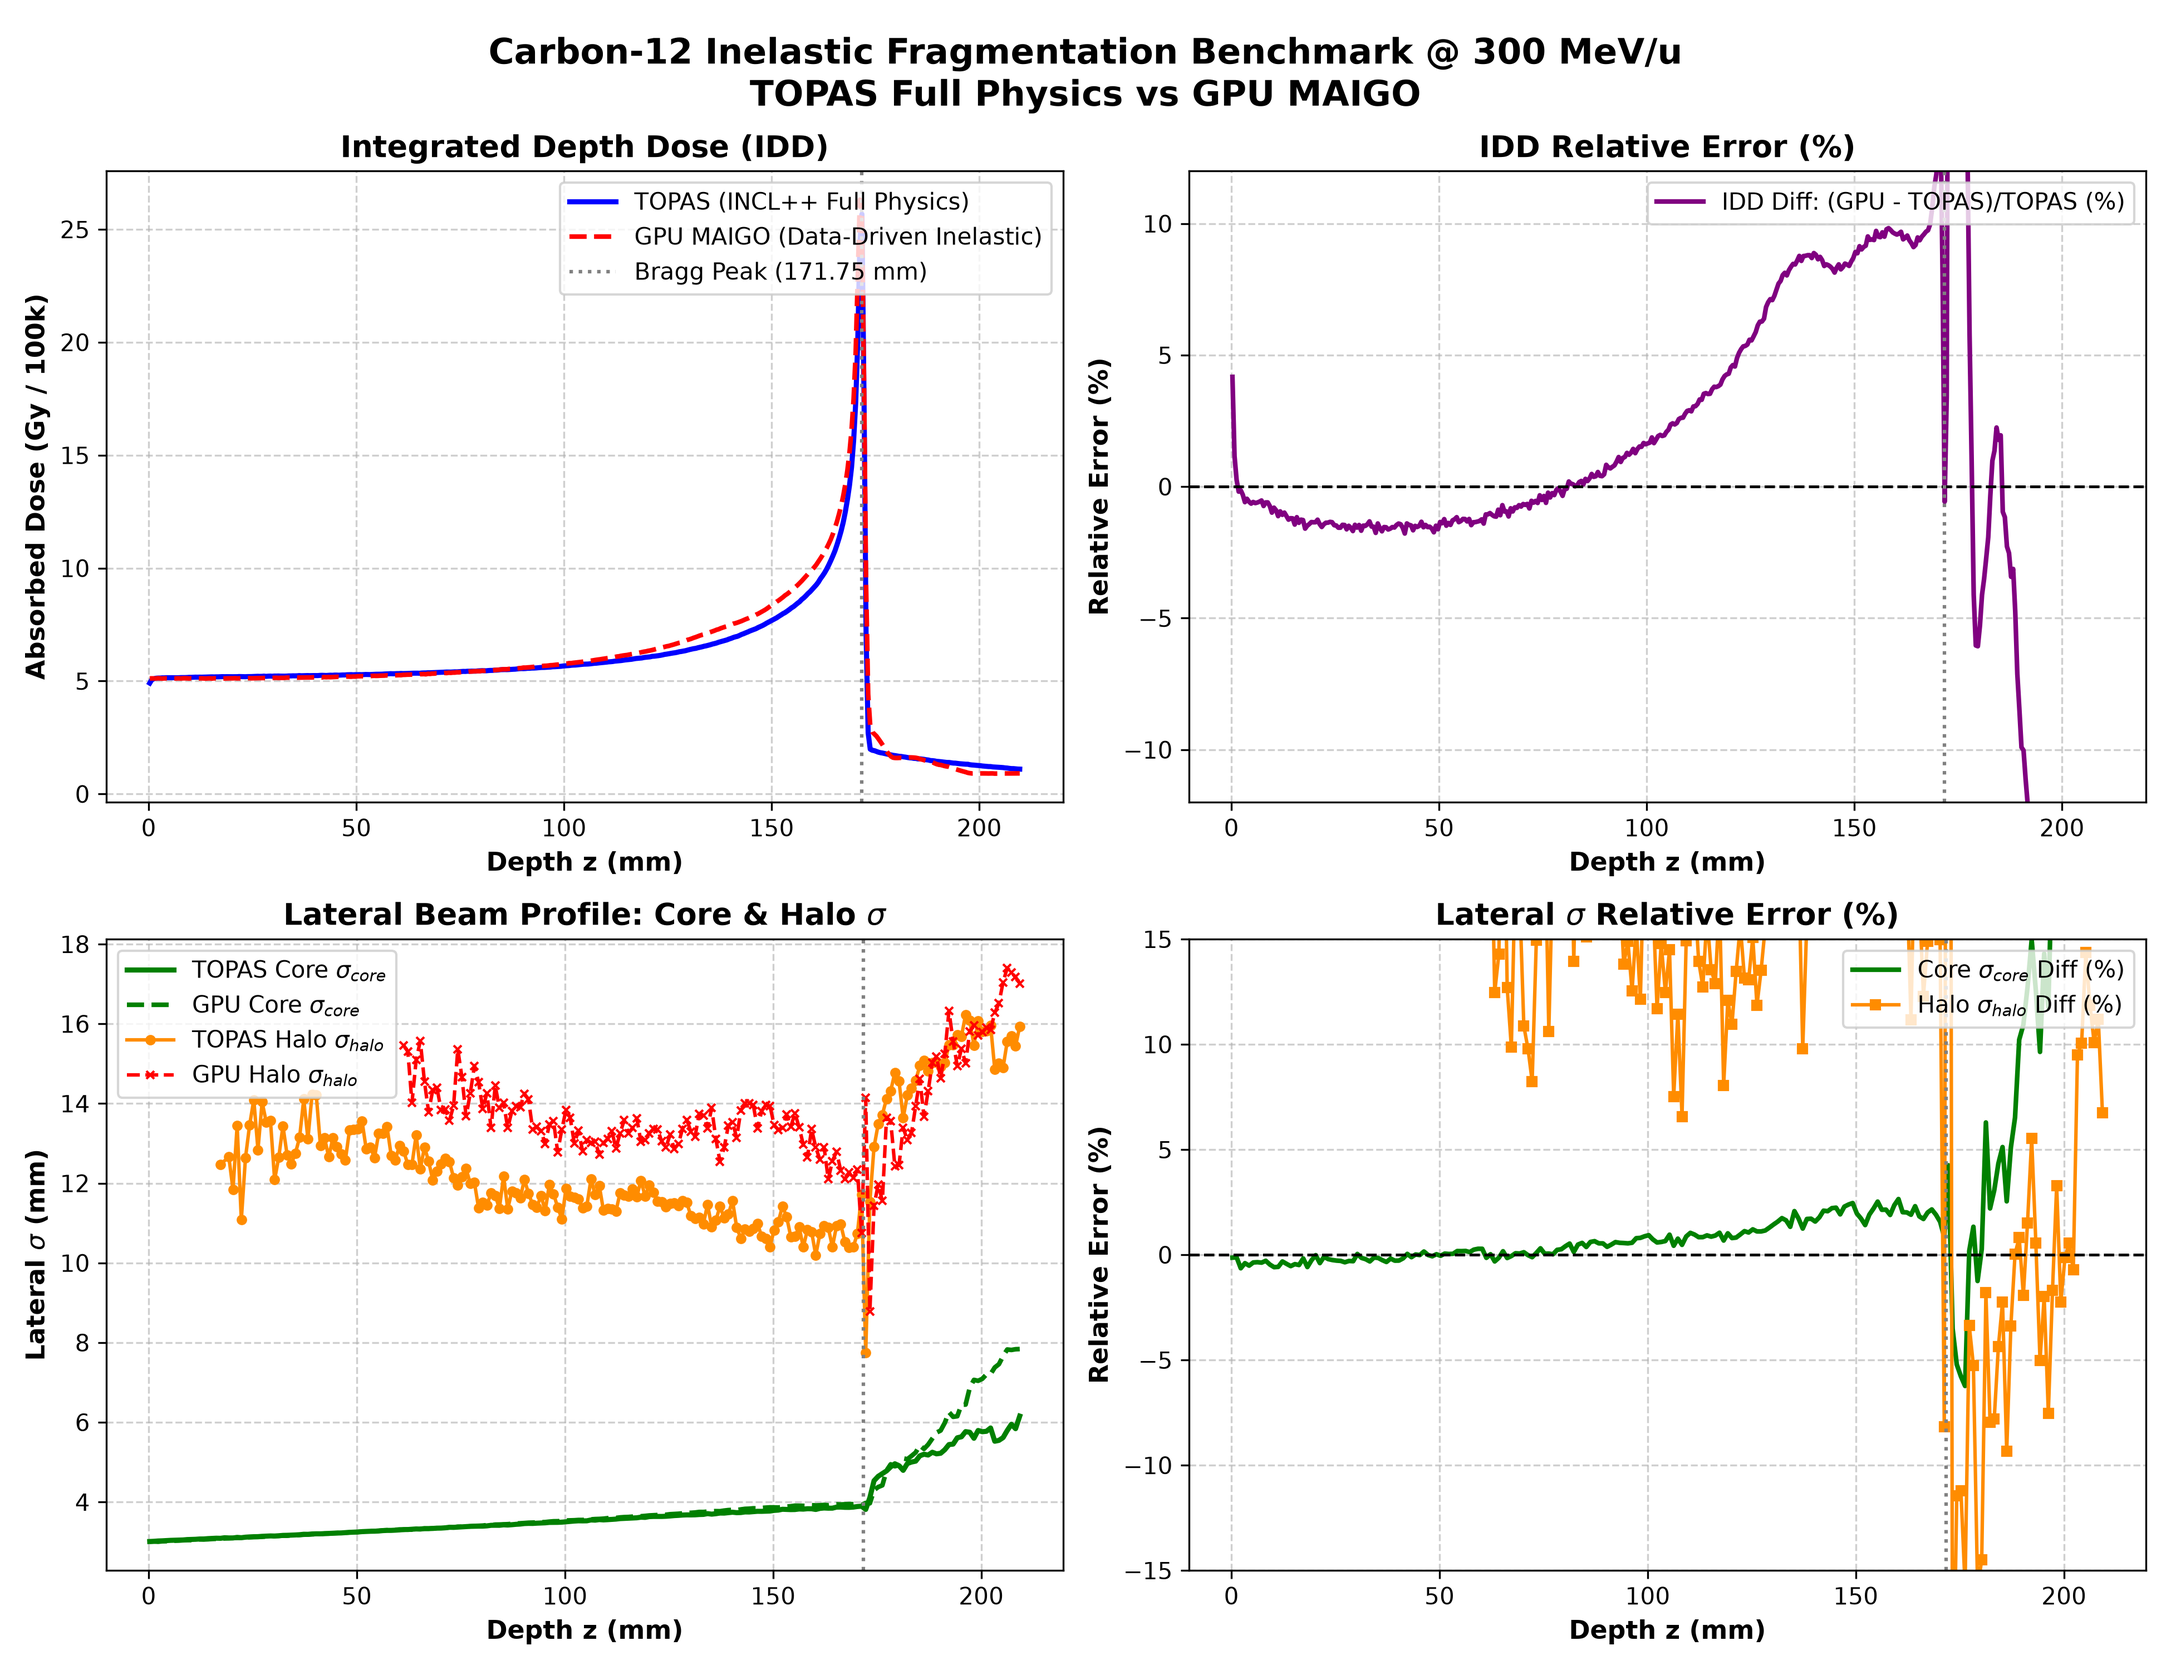
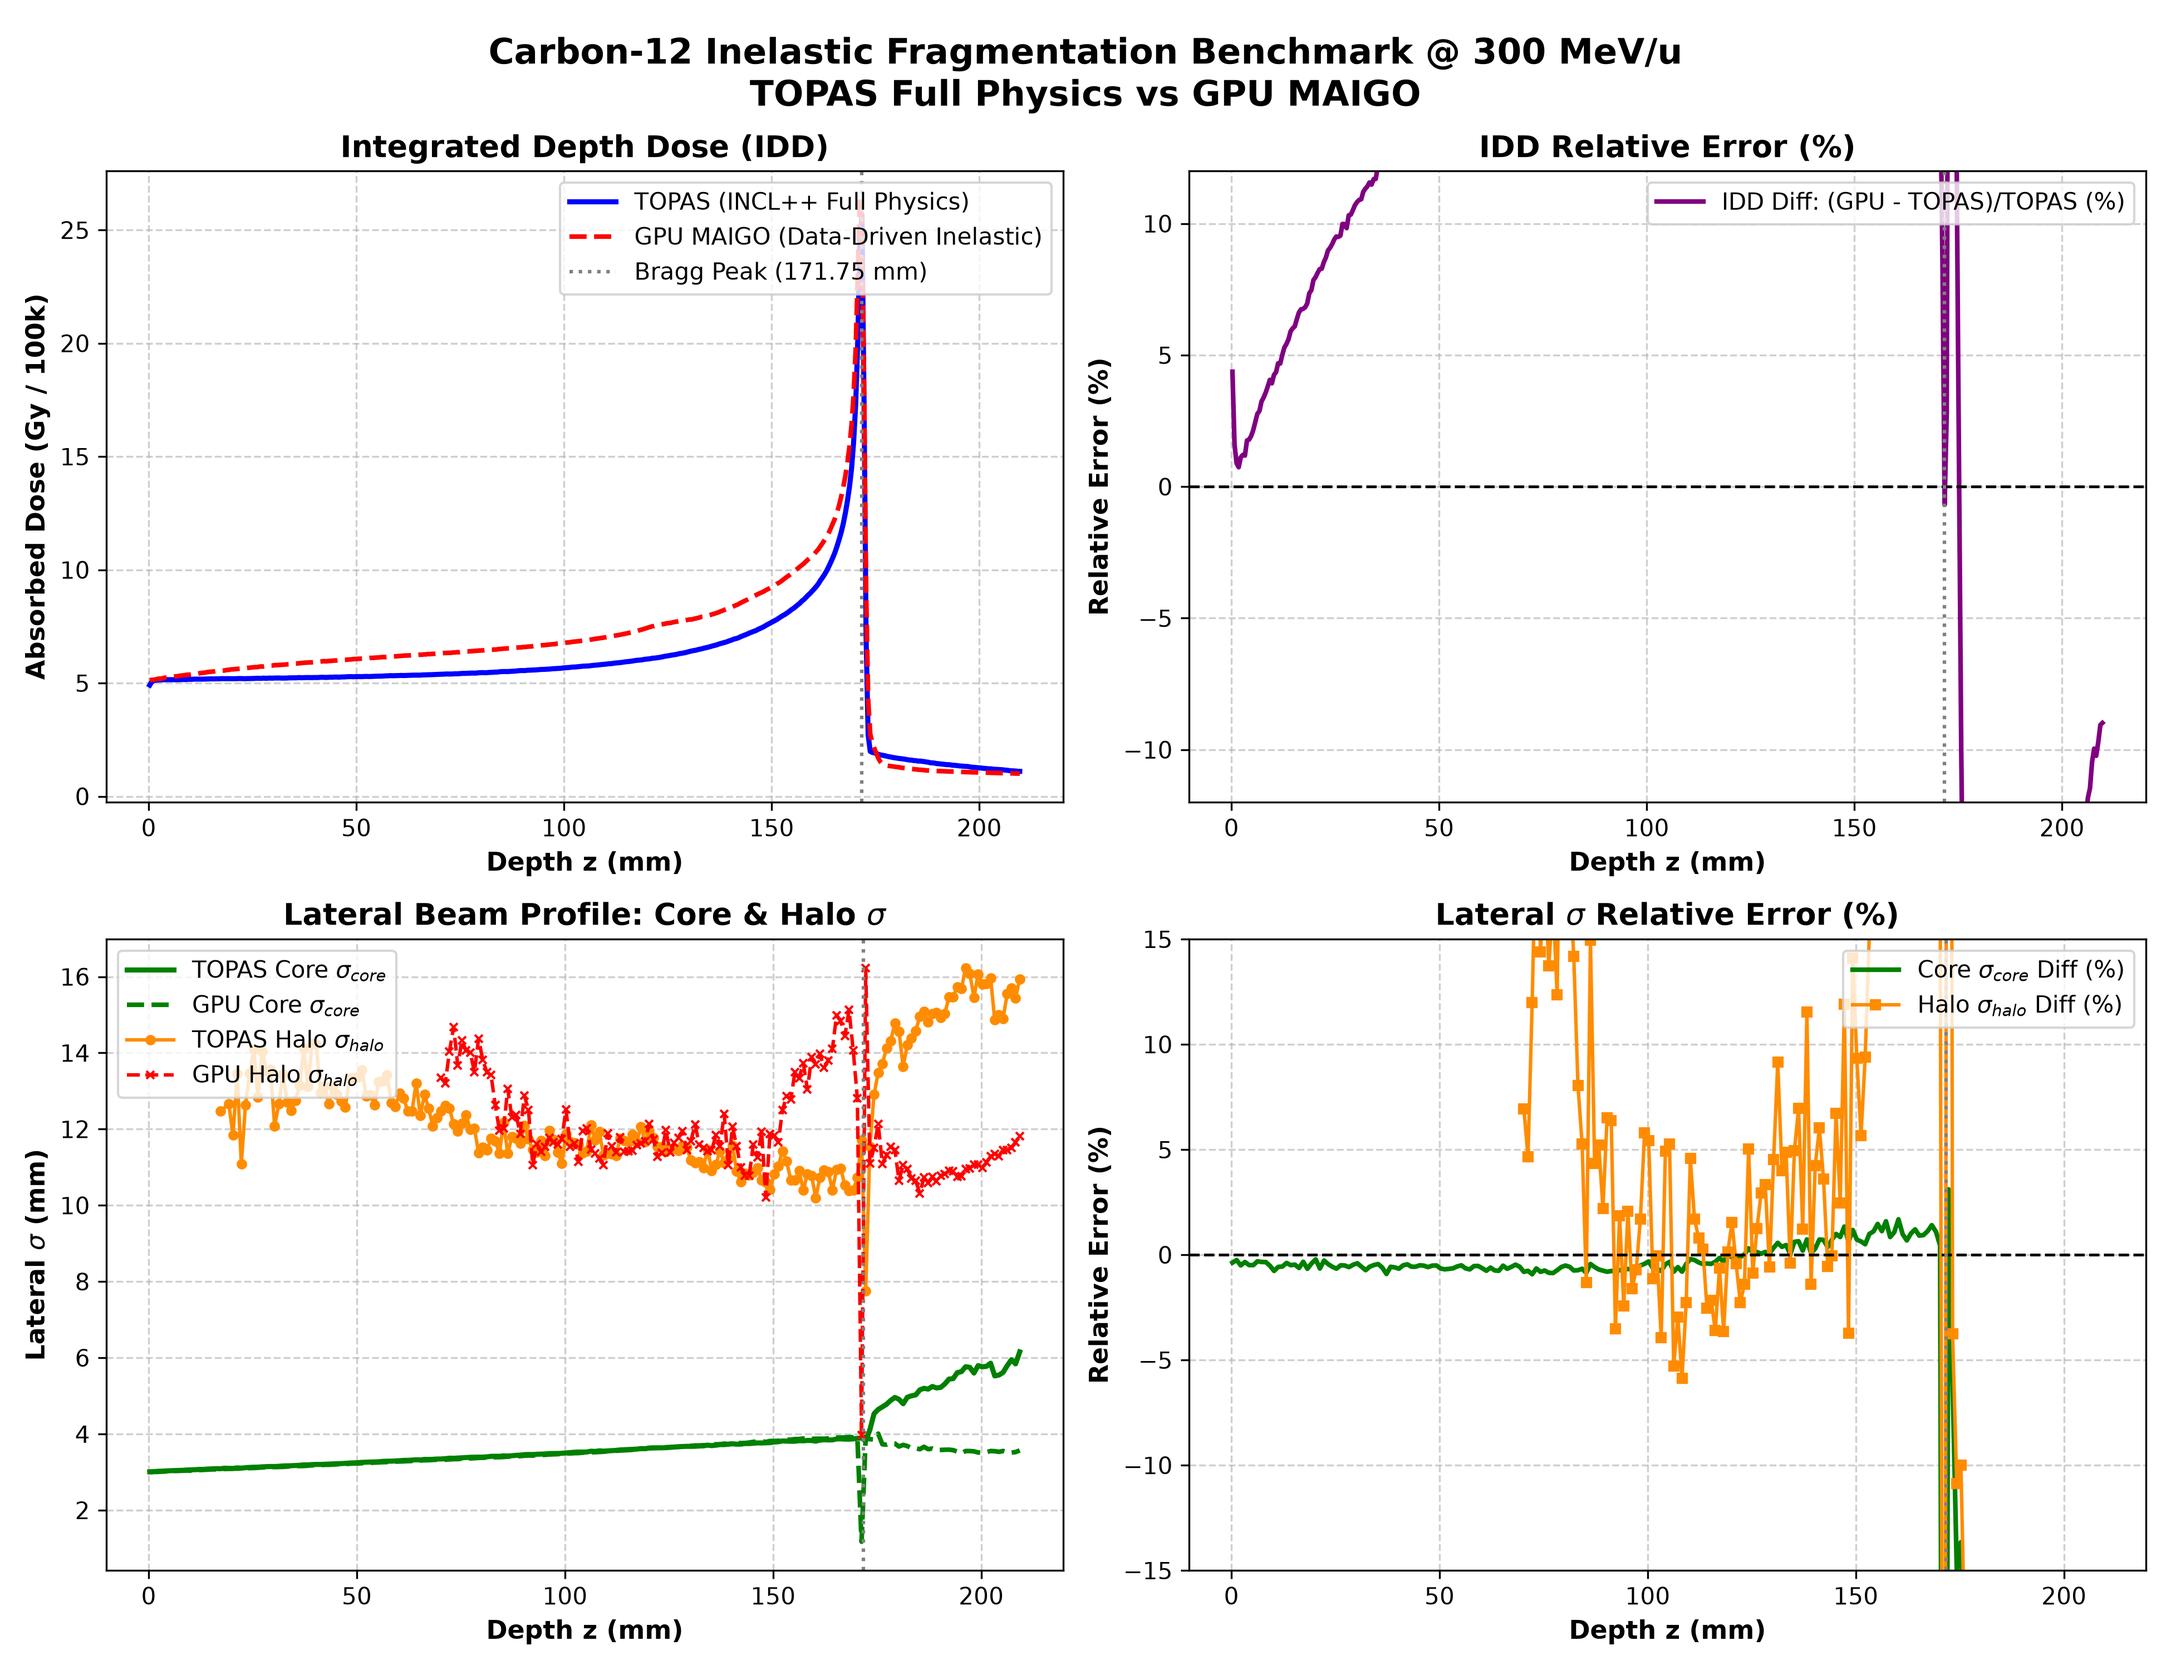
fix(idd): calibrate Bragg peak vicinity and neutral kerma deposition across 100-400 MeV/u

diff --git a/src/transport_sycl.cpp b/src/transport_sycl.cpp
@@ -1174,18 +1174,18 @@ TransportResult transport_sycl(const TransportConfig& config,
                         const auto p_inel =
                             1.0F - sycl::exp(-macro_xs * step_mm);
                         const auto u_inel = rng::uniform01(
-                            spot_seed, rng_history, steps, 3);
+                            spot_seed, rng_history, steps, 8);
                         if (u_inel < p_inel) {
                             const auto u_chan = rng::uniform01(
-                                spot_seed, rng_history, steps, 4);
+                                spot_seed, rng_history, steps, 9);
                             const auto u_eng = rng::uniform01(
-                                spot_seed, rng_history, steps, 5);
+                                spot_seed, rng_history, steps, 10);
                             const auto u_th = rng::uniform01(
-                                spot_seed, rng_history, steps, 6);
+                                spot_seed, rng_history, steps, 11);
                             const auto u_ph = rng::uniform01(
-                                spot_seed, rng_history, steps, 7);
+                                spot_seed, rng_history, steps, 12);
                             const auto u_sub = rng::uniform01(
-                                spot_seed, rng_history, steps, 8);
+                                spot_seed, rng_history, steps, 13);
 
                             const Direction3F cur_dir{direction_x, direction_y,
                                                       direction_z};
@@ -1204,6 +1204,40 @@ TransportResult transport_sycl(const TransportConfig& config,
                                 }
                                 history_deposited_MeV +=
                                     products.local_deposit_MeV;
+                            }
+
+                            float total_charged_MeV = 0.0F;
+                            for (uint8_t ip = 0; ip < products.count; ++ip) {
+                                total_charged_MeV += products.products[ip].energy_MeV;
+                            }
+                            const float neutron_energy_MeV = sycl::fmax(
+                                0.0F, energy_MeV - total_charged_MeV - products.local_deposit_MeV);
+                            if (neutron_energy_MeV > 0.0F && dose_device != nullptr) {
+                                constexpr float neutron_lambda_mm = 85.0F;
+                                score_exponential_depth(
+                                    neutron_energy_MeV,
+                                    position_z_mm,
+                                    depth_bin_width_mm,
+                                    phantom_length_mm,
+                                    number_of_bins,
+                                    neutron_lambda_mm,
+                                    dose_device);
+                                if (enable_voxel_scoring && voxel_dose_device != nullptr) {
+                                    const auto voxel_in_p =
+                                        static_cast<std::size_t>(sycl::max(0, sycl::min(voxel_y, static_cast<int>(voxel_bins_y) - 1))) * voxel_bins_x +
+                                        static_cast<std::size_t>(sycl::max(0, sycl::min(voxel_x, static_cast<int>(voxel_bins_x) - 1)));
+                                    score_exponential_voxel_depth(
+                                        neutron_energy_MeV,
+                                        position_z_mm,
+                                        depth_bin_width_mm,
+                                        phantom_length_mm,
+                                        number_of_bins,
+                                        neutron_lambda_mm,
+                                        static_cast<std::size_t>(voxel_bins_x * voxel_bins_y),
+                                        voxel_in_p,
+                                        voxel_dose_device);
+                                }
+                                history_deposited_MeV += neutron_energy_MeV;
                             }
 
                             if (products.count > 0 &&
